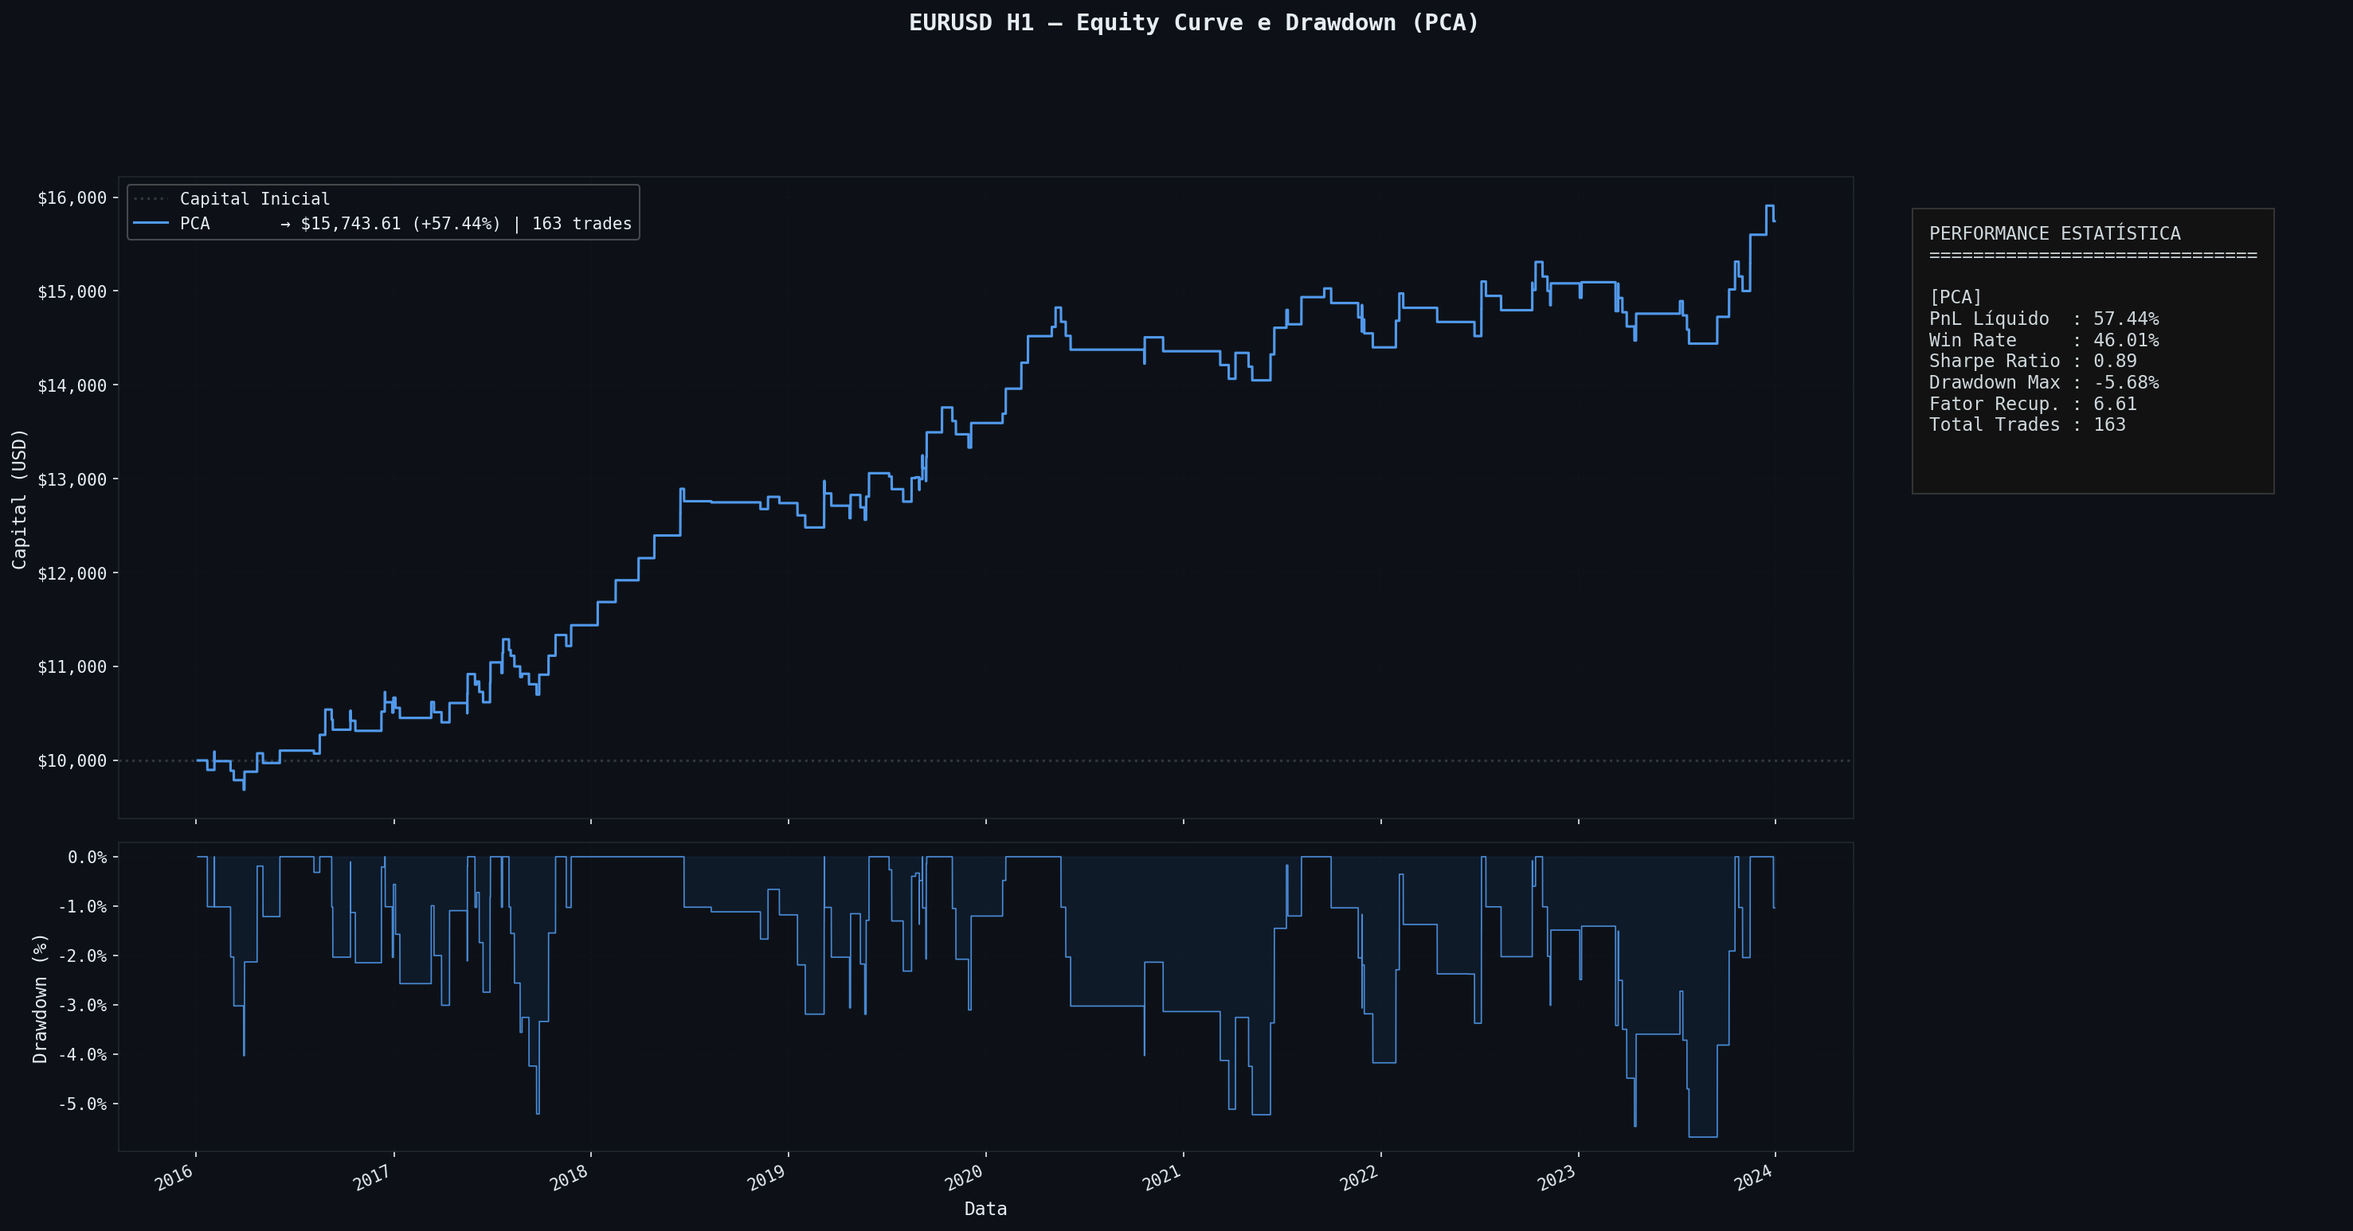
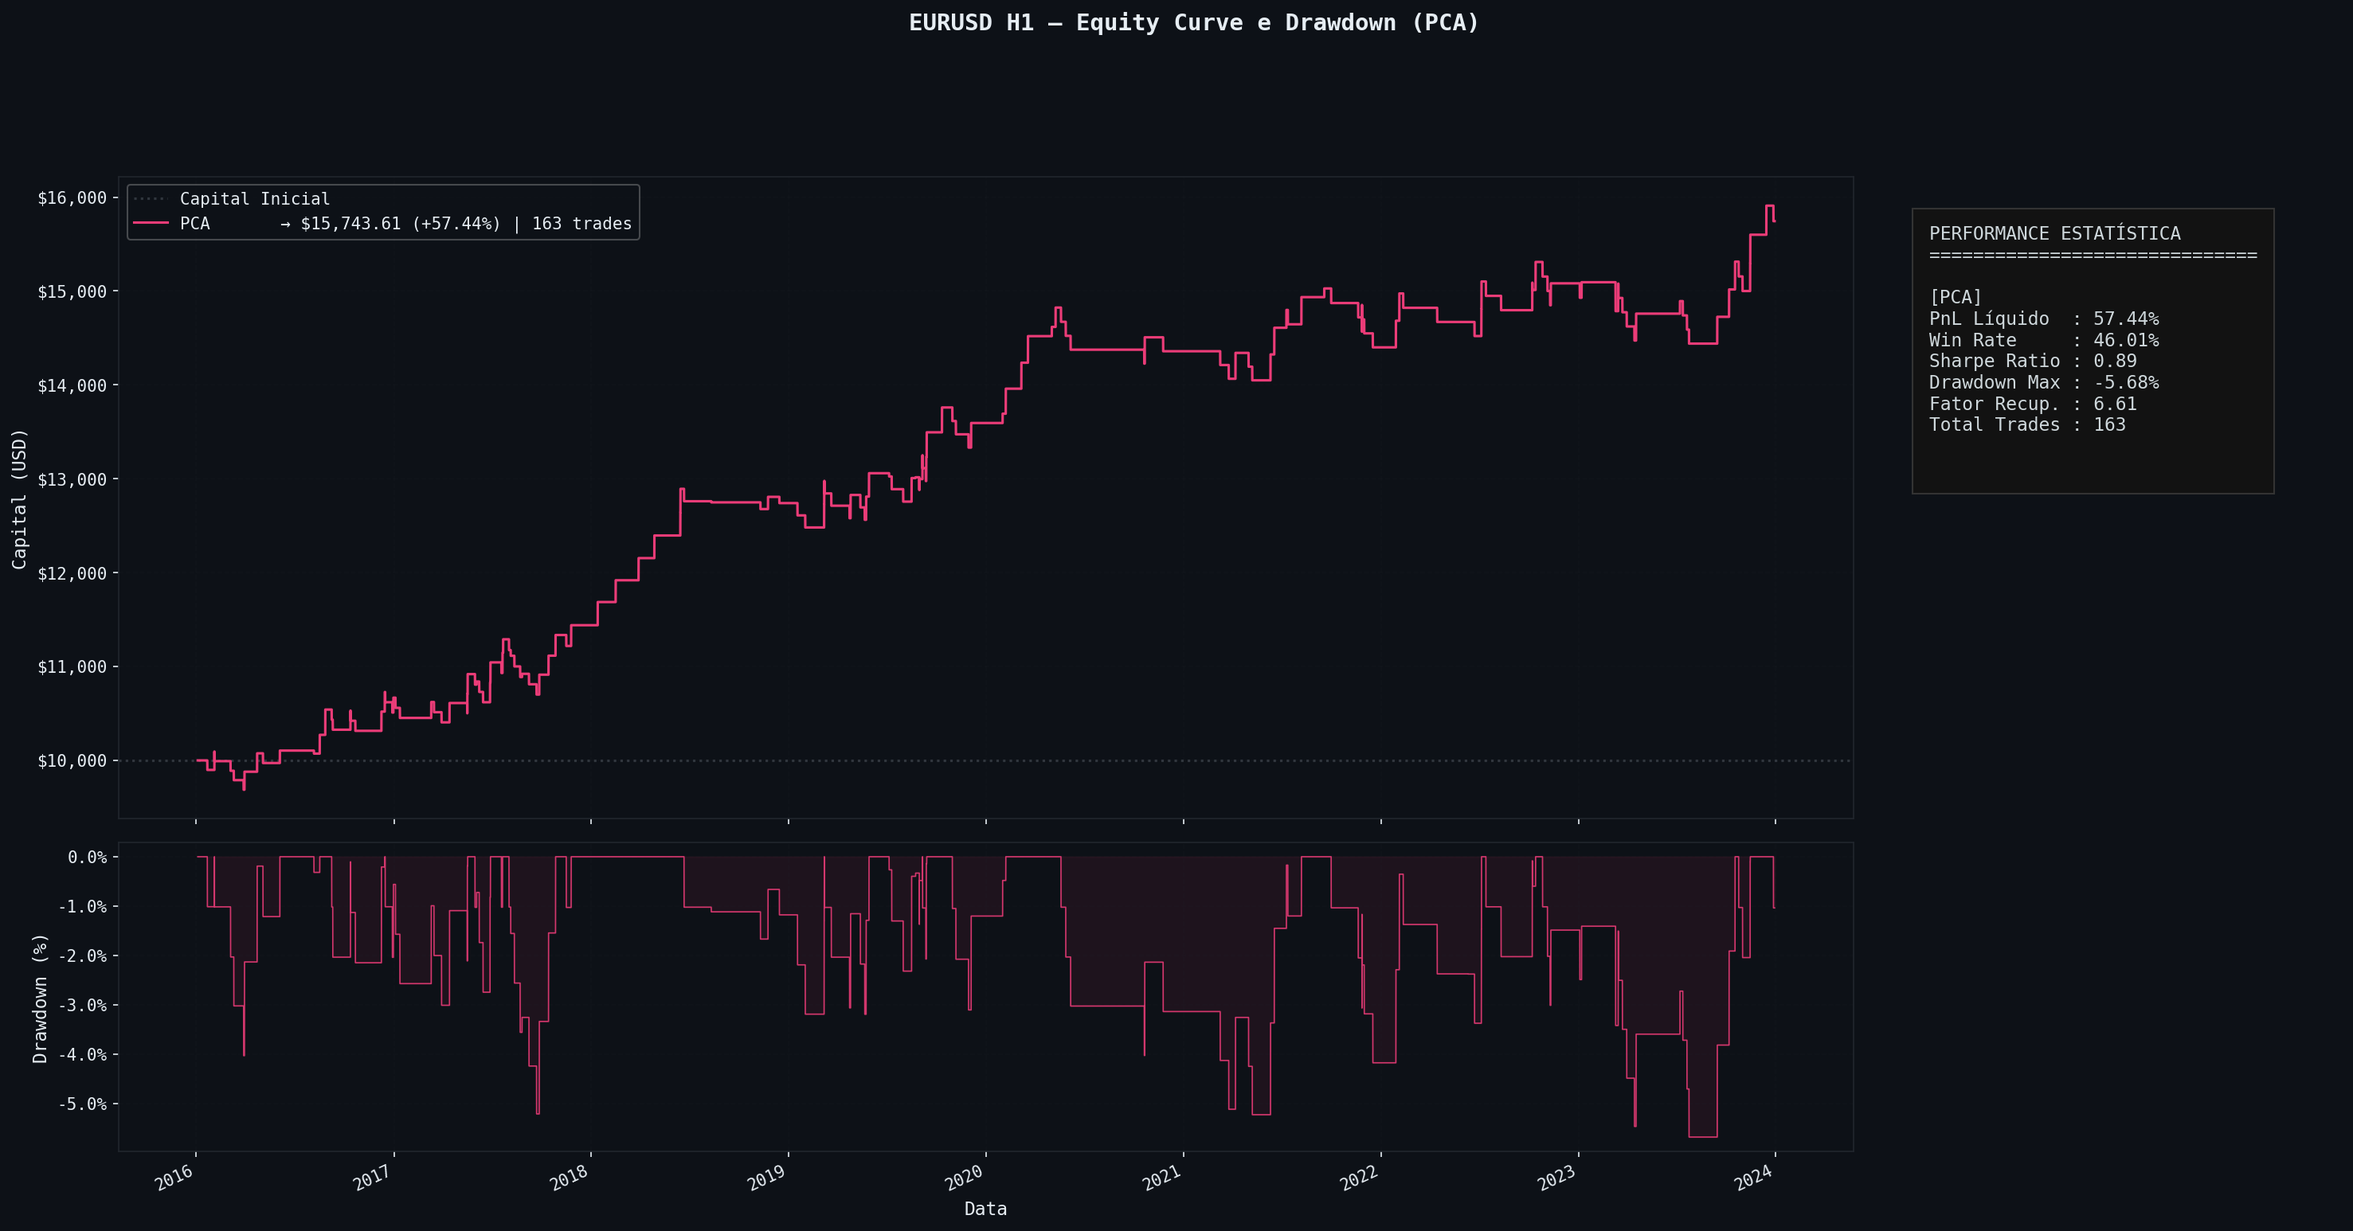
28052026.1700

diff --git a/quant_eurusd/backtest.py b/quant_eurusd/backtest.py
@@ -253,8 +253,8 @@ def simular_estrategia(
     
     operacoes: List[Operacao] = []
     capital = CAPITAL_INICIAL
-    posicao: Optional[Operacao] = None
-    candle_entrada = 0
+    posicoes_ativas: Dict[str, Operacao] = {}
+    candles_entrada: Dict[str, int] = {}
     id_op = 0
     
     indices = df.index
@@ -262,7 +262,7 @@ def simular_estrategia(
     highs = df["High"].values.astype(np.float64)
     lows = df["Low"].values.astype(np.float64)
     closes = df["Close"].values.astype(np.float64)
-    sinais = df[coluna_sinal].values.astype(np.int8)
+    sinais = df[coluna_sinal].values.astype(np.int8) if coluna_sinal in df.columns else np.zeros(len(df), dtype=np.int8)
     
     # Parâmetros de Stop de cada estratégia
     sl_z = df["sl_pips_zscore"].values.astype(np.float64)
@@ -288,6 +288,20 @@ def simular_estrategia(
     
     n_rows = len(df)
     
+    if is_combinada:
+        sinais_dict = {
+            "MOMENTUM": df["sinal_momentum"].values.astype(np.int8) if "sinal_momentum" in df.columns else np.zeros(n_rows, dtype=np.int8),
+            "PCA": df["sinal_pca"].values.astype(np.int8) if "sinal_pca" in df.columns else np.zeros(n_rows, dtype=np.int8),
+            "HAWKES": df["sinal_hawkes"].values.astype(np.int8) if "sinal_hawkes" in df.columns else np.zeros(n_rows, dtype=np.int8),
+            "OU_REVERSO": df["sinal_ou_reverso"].values.astype(np.int8) if "sinal_ou_reverso" in df.columns else np.zeros(n_rows, dtype=np.int8),
+            "ZSCORE": df["sinal_zscore"].values.astype(np.int8) if "sinal_zscore" in df.columns else np.zeros(n_rows, dtype=np.int8),
+            "WAVELET": df["sinal_wavelet"].values.astype(np.int8) if "sinal_wavelet" in df.columns else np.zeros(n_rows, dtype=np.int8)
+        }
+        ordem_prioridade = ["MOMENTUM", "PCA", "HAWKES", "OU_REVERSO", "ZSCORE", "WAVELET"]
+    else:
+        sinais_dict = {nome: sinais}
+        ordem_prioridade = [nome]
+    
     for i in range(n_rows):
         dt_atual = indices[i]
         dia_semana = dt_atual.weekday()  # 0=Seg... 4=Sex
@@ -301,20 +315,25 @@ def simular_estrategia(
             ((dia_semana == 6) and (hora < 21))        # Domingo pré-21h
         )
         
-        # 1. Gerenciar Posição Aberta
-        if posicao is not None:
+        # 1. Gerenciar Posições Abertas
+        estrategias_ativas = list(posicoes_ativas.keys())
+        for est in estrategias_ativas:
+            pos = posicoes_ativas[est]
+            c_ent = candles_entrada[est]
+            
             # Fechamento forçado sexta 21h
             if eh_sexta_21h:
-                pnl_p, pnl_m = calcular_pnl(posicao.direcao, posicao.entrada_preco, closes[i], posicao.lot_size)
-                posicao.saida_dt = dt_atual
-                posicao.saida_preco = closes[i]
-                posicao.motivo_saida = "FIM_SEMANA"
-                posicao.pnl_pips = pnl_p
-                posicao.pnl_monetario = pnl_m
-                posicao.duracao_candles = i - candle_entrada
+                pnl_p, pnl_m = calcular_pnl(pos.direcao, pos.entrada_preco, closes[i], pos.lot_size)
+                pos.saida_dt = dt_atual
+                pos.saida_preco = closes[i]
+                pos.motivo_saida = "FIM_SEMANA"
+                pos.pnl_pips = pnl_p
+                pos.pnl_monetario = pnl_m
+                pos.duracao_candles = i - c_ent
                 capital += pnl_m
-                operacoes.append(posicao)
-                posicao = None
+                operacoes.append(pos)
+                del posicoes_ativas[est]
+                del candles_entrada[est]
             else:
                 # Determinar quais saídas neutras monitorar dependendo da posição
                 z_val = zscores[i] if zscores is not None else None
@@ -323,142 +342,104 @@ def simular_estrategia(
                 w_val = wav_d_fase_arr[i] if wav_d_fase_arr is not None else None
                 w_prev = wav_d_fase_arr[i-1] if (wav_d_fase_arr is not None and i > 0) else None
                 
-                u_z_exit = usar_zscore_exit
-                u_o_exit = usar_hawkes_exit
-                u_ou_exit = usar_ou_exit
-                u_w_exit = usar_wavelet_exit
-                
-                if is_combinada and posicao.motivo_saida == "":
-                    # Na combinada, extraímos o comportamento da origem do trade
-                    orig = posicao.estrategia
-                    u_z_exit = (orig == "ZSCORE")
-                    u_o_exit = (orig == "HAWKES")
-                    u_ou_exit = (orig == "OU_REVERSO")
-                    u_w_exit = (orig == "WAVELET")
+                u_z_exit = (est == "ZSCORE") or (not is_combinada and usar_zscore_exit)
+                u_o_exit = (est == "HAWKES") or (not is_combinada and usar_hawkes_exit)
+                u_ou_exit = (est == "OU_REVERSO") or (not is_combinada and usar_ou_exit)
+                u_w_exit = (est == "WAVELET") or (not is_combinada and usar_wavelet_exit)
                 
                 deve_fechar, preco_saida, motivo = verificar_saida_candle(
-                    posicao.direcao, highs[i], lows[i], closes[i],
-                    posicao.sl_preco, posicao.tp_preco,
+                    pos.direcao, highs[i], lows[i], closes[i],
+                    pos.sl_preco, pos.tp_preco,
                     z_val, o_val, ou_val, u_z_exit, u_o_exit, u_ou_exit,
                     w_val, w_prev, u_w_exit
                 )
                 
                 if deve_fechar:
-                    pnl_p, pnl_m = calcular_pnl(posicao.direcao, posicao.entrada_preco, preco_saida, posicao.lot_size)
-                    posicao.saida_dt = dt_atual
-                    posicao.saida_preco = preco_saida
-                    posicao.motivo_saida = motivo
-                    posicao.pnl_pips = pnl_p
-                    posicao.pnl_monetario = pnl_m
-                    posicao.duracao_candles = i - candle_entrada
-                    # Restaurar nome correto da estratégia na combinada
-                    if is_combinada:
-                        posicao.estrategia = "COMBINADA"
+                    pnl_p, pnl_m = calcular_pnl(pos.direcao, pos.entrada_preco, preco_saida, pos.lot_size)
+                    pos.saida_dt = dt_atual
+                    pos.saida_preco = preco_saida
+                    pos.motivo_saida = motivo
+                    pos.pnl_pips = pnl_p
+                    pos.pnl_monetario = pnl_m
+                    pos.duracao_candles = i - c_ent
                     capital += pnl_m
-                    operacoes.append(posicao)
-                    posicao = None
+                    operacoes.append(pos)
+                    del posicoes_ativas[est]
+                    del candles_entrada[est]
                     
-        # 2. Abrir Nova Posição
-        if posicao is None and sinais[i] != 0 and not bloqueio_entrada:
-            if i + 1 >= n_rows:
-                continue
-                
-            # Identificar parâmetros de stop
-            sl_pips, tp_pips = 0.0, 0.0
-            orig_nome = nome
+        # 2. Abrir Novas Posições (1 por robô)
+        if not bloqueio_entrada and i + 1 < n_rows:
+            for est in ordem_prioridade:
+                if est not in posicoes_ativas:
+                    sinal_val = sinais_dict[est][i]
+                    if sinal_val != 0:
+                        # Identificar parâmetros de stop
+                        if est == "ZSCORE":
+                            sl_pips, tp_pips = sl_z[i], tp_z[i]
+                        elif est == "MOMENTUM":
+                            sl_pips, tp_pips = sl_m[i], tp_m[i]
+                        elif est == "OU_REVERSO":
+                            sl_pips = sl_ou[i] if sl_ou is not None else 0
+                            tp_pips = tp_ou[i] if tp_ou is not None else 0
+                        elif est == "HAWKES":
+                            sl_pips, tp_pips = sl_o[i], tp_o[i]
+                        elif est == "WAVELET":
+                            sl_pips = sl_w[i] if sl_w is not None else 0
+                            tp_pips = tp_w[i] if tp_w is not None else 0
+                        elif est == "PCA":
+                            sl_pips = sl_pca[i] if sl_pca is not None else 0
+                            tp_pips = tp_pca[i] if tp_pca is not None else 0
+                        else:
+                            continue
+                            
+                        if not (math.isfinite(sl_pips) and sl_pips > 0 and math.isfinite(tp_pips) and tp_pips > 0):
+                            continue
+                            
+                        lot = calcular_tamanho_lote(capital, sl_pips)
+                        delta_sl = sl_pips / FATOR_PIPS
+                        delta_tp = tp_pips / FATOR_PIPS
+                        
+                        preco_entrada = opens[i + 1]
+                        direc = int(sinal_val)
+                        
+                        if direc == 1:  # LONG
+                            sl_abs = preco_entrada - delta_sl
+                            tp_abs = preco_entrada + delta_tp
+                        else:  # SHORT
+                            sl_abs = preco_entrada + delta_sl
+                            tp_abs = preco_entrada - delta_tp
+                            
+                        id_op += 1
+                        nova_pos = Operacao(
+                            id=id_op,
+                            estrategia=f"COMBINADA ({est})" if is_combinada else nome,
+                            direcao=direc,
+                            entrada_dt=dt_atual,
+                            entrada_preco=preco_entrada,
+                            sl_preco=sl_abs,
+                            tp_preco=tp_abs,
+                            sl_pips=sl_pips,
+                            tp_pips=tp_pips,
+                            lot_size=lot,
+                            capital_entrada=capital
+                        )
+                        posicoes_ativas[est] = nova_pos
+                        candles_entrada[est] = i
             
-            if is_combinada and origens is not None:
-                orig_s = origens[i]
-                if orig_s == 1:  # HAWKES
-                    sl_pips = sl_o[i]
-                    tp_pips = tp_o[i]
-                    orig_nome = "HAWKES"
-                elif orig_s == 2:  # ZSCORE
-                    sl_pips = sl_z[i]
-                    tp_pips = tp_z[i]
-                    orig_nome = "ZSCORE"
-                elif orig_s == 3:  # MOMENTUM
-                    sl_pips = sl_m[i]
-                    tp_pips = tp_m[i]
-                    orig_nome = "MOMENTUM"
-                elif orig_s == 4:  # OU_REVERSO
-                    sl_pips = sl_ou[i]
-                    tp_pips = tp_ou[i]
-                    orig_nome = "OU_REVERSO"
-                elif orig_s == 5:  # WAVELET
-                    sl_pips = sl_w[i]
-                    tp_pips = tp_w[i]
-                    orig_nome = "WAVELET"
-                elif orig_s == 6:  # PCA
-                    sl_pips = sl_pca[i]
-                    tp_pips = tp_pca[i]
-                    orig_nome = "PCA"
-            else:
-                if nome == "ZSCORE":
-                    sl_pips = sl_z[i]
-                    tp_pips = tp_z[i]
-                elif nome == "MOMENTUM":
-                    sl_pips = sl_m[i]
-                    tp_pips = tp_m[i]
-                elif nome == "OU_REVERSO" and sl_ou is not None:
-                    sl_pips = sl_ou[i]
-                    tp_pips = tp_ou[i]
-                elif nome == "HAWKES":
-                    sl_pips = sl_o[i]
-                    tp_pips = tp_o[i]
-                elif nome == "WAVELET" and sl_w is not None:
-                    sl_pips = sl_w[i]
-                    tp_pips = tp_w[i]
-                elif nome == "PCA" and sl_pca is not None:
-                    sl_pips = sl_pca[i]
-                    tp_pips = tp_pca[i]
-                    
-            if not (math.isfinite(sl_pips) and sl_pips > 0 and math.isfinite(tp_pips) and tp_pips > 0):
-                continue
-                
-            lot = calcular_tamanho_lote(capital, sl_pips)
-            delta_sl = sl_pips / FATOR_PIPS
-            delta_tp = tp_pips / FATOR_PIPS
-            
-            preco_entrada = opens[i + 1]
-            direc = int(sinais[i])
-            
-            if direc == 1:  # LONG
-                sl_abs = preco_entrada - delta_sl
-                tp_abs = preco_entrada + delta_tp
-            else:  # SHORT
-                sl_abs = preco_entrada + delta_sl
-                tp_abs = preco_entrada - delta_tp
-                
-            id_op += 1
-            posicao = Operacao(
-                id=id_op,
-                estrategia=orig_nome,  # Na combinada, usamos o nome original temporariamente para saber como sair
-                direcao=direc,
-                entrada_dt=dt_atual,
-                entrada_preco=preco_entrada,
-                sl_preco=sl_abs,
-                tp_preco=tp_abs,
-                sl_pips=sl_pips,
-                tp_pips=tp_pips,
-                lot_size=lot,
-                capital_entrada=capital
-            )
-            candle_entrada = i
-            
-    # Fechar posição aberta no último candle
-    if posicao is not None:
-        pnl_p, pnl_m = calcular_pnl(posicao.direcao, posicao.entrada_preco, closes[-1], posicao.lot_size)
-        posicao.saida_dt = indices[-1]
-        posicao.saida_preco = closes[-1]
-        posicao.motivo_saida = "FIM_DADOS"
-        posicao.pnl_pips = pnl_p
-        posicao.pnl_monetario = pnl_m
-        posicao.duracao_candles = n_rows - 1 - candle_entrada
-        if is_combinada:
-            posicao.estrategia = "COMBINADA"
+    # Fechar todas posições abertas no último candle
+    estrategias_ativas = list(posicoes_ativas.keys())
+    for est in estrategias_ativas:
+        pos = posicoes_ativas[est]
+        c_ent = candles_entrada[est]
+        pnl_p, pnl_m = calcular_pnl(pos.direcao, pos.entrada_preco, closes[-1], pos.lot_size)
+        pos.saida_dt = indices[-1]
+        pos.saida_preco = closes[-1]
+        pos.motivo_saida = "FIM_DADOS"
+        pos.pnl_pips = pnl_p
+        pos.pnl_monetario = pnl_m
+        pos.duracao_candles = n_rows - 1 - c_ent
         capital += pnl_m
-        operacoes.append(posicao)
+        operacoes.append(pos)
         
     logger.info(f"Fim da simulação {nome}: {len(operacoes)} operações | Capital Final: ${capital:,.2f}")
     return operacoes
@@ -863,35 +844,14 @@ def processar_pipeline_backtest():
     sinal_comb = np.zeros(len(df), dtype=np.int8)
     origem_sinal = np.zeros(len(df), dtype=np.int8)
     
-    s_z = df["sinal_zscore"].values
-    s_m = df["sinal_momentum"].values
-    s_h = df["sinal_hawkes"].values
-    s_ou = df["sinal_ou_reverso"].values
-    s_w = df["sinal_wavelet"].values
-    s_pca = df["sinal_pca"].values
-    
-    for i in range(len(df)):
-        if s_m[i] != 0:
-            sinal_comb[i] = s_m[i]
-            origem_sinal[i] = 3 # MOMENTUM (Must map exactly to what simular_estrategia expects)
-        elif s_pca[i] != 0:
-            sinal_comb[i] = s_pca[i]
-            origem_sinal[i] = 6 # PCA
-        elif s_h[i] != 0:
-            sinal_comb[i] = s_h[i]
-            origem_sinal[i] = 1 # HAWKES
-        elif s_ou[i] != 0:
-            sinal_comb[i] = s_ou[i]
-            origem_sinal[i] = 4 # OU_REVERSO
-        elif s_z[i] != 0:
-            sinal_comb[i] = s_z[i]
-            origem_sinal[i] = 2 # ZSCORE
-        elif s_w[i] != 0:
-            sinal_comb[i] = s_w[i]
-            origem_sinal[i] = 5 # WAVELET
-            
     df["sinal_combinado"] = sinal_comb
-    df["origem_sinal"] = origem_sinal
+    # Sinais originais processados isoladamente pelo simular_estrategia
+    s_z = df["sinal_zscore"].values if "sinal_zscore" in df.columns else np.zeros(len(df))
+    s_m = df["sinal_momentum"].values if "sinal_momentum" in df.columns else np.zeros(len(df))
+    s_h = df["sinal_hawkes"].values if "sinal_hawkes" in df.columns else np.zeros(len(df))
+    s_ou = df["sinal_ou_reverso"].values if "sinal_ou_reverso" in df.columns else np.zeros(len(df))
+    s_w = df["sinal_wavelet"].values if "sinal_wavelet" in df.columns else np.zeros(len(df))
+    s_pca = df["sinal_pca"].values if "sinal_pca" in df.columns else np.zeros(len(df))
     
     n_z_tot = (s_z != 0).sum()
     n_m_tot = (s_m != 0).sum()

diff --git a/quant_eurusd/backtest_individual.py b/quant_eurusd/backtest_individual.py
@@ -635,7 +635,11 @@ def gerar_grafico_equity_curves(
     mapa_visual = {
         "ZSCORE":    (COR_ZSCORE,    COR_DD_Z),
         "MOMENTUM":  (COR_MOMENTUM,  COR_DD_M),
-        "COMBINADA": (COR_COMBINADA, COR_DD_C)
+        "OU":        (COR_OU,        COR_DD_O),
+        "OU_REVERSO":(COR_OU,        COR_DD_O),
+        "HAWKES":    ("#00E676",     "#006030"),
+        "WAVELET":   ("#FF9800",     "#804c00"),
+        "PCA":       ("#FF4081",     "#802040")
     }
     
     for nome, eq in equity_curves.items():
